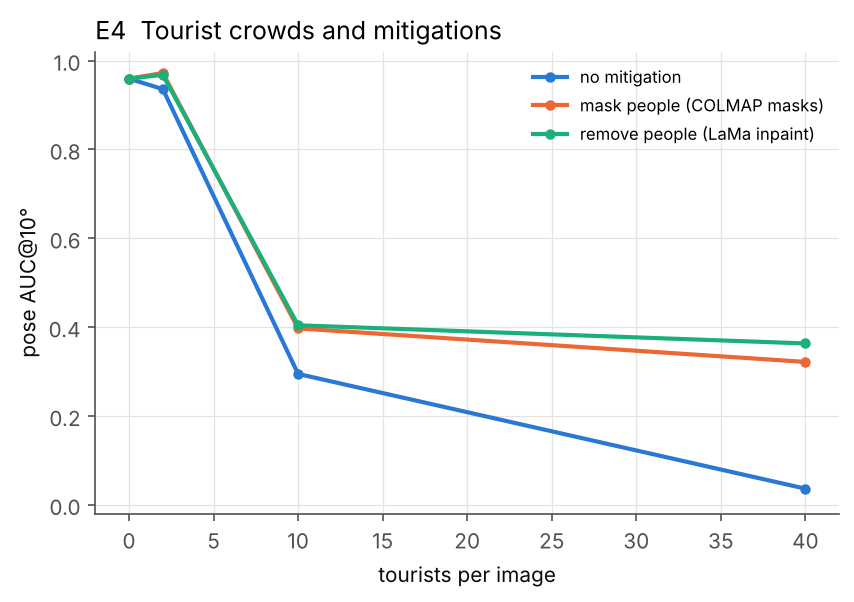
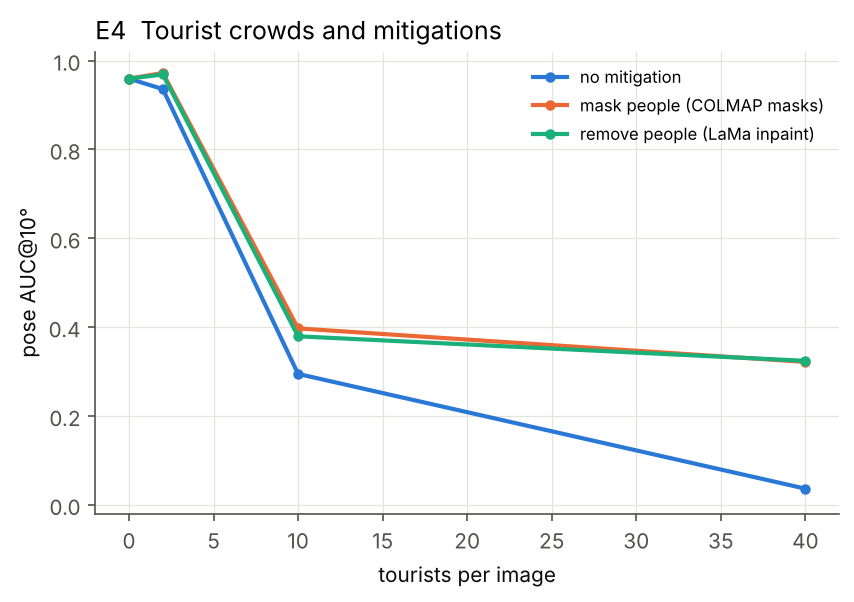
Update generative results
Claude-Session: https://claude.ai/code/session_01DwFUuxyVwkhujN2CBgQS9g

Changed region(s): [[0.3349, 0.5083, 0.9438, 0.6279], [0.2436, 0.2691, 0.3349, 0.5083], [0.2131, 0.1794, 0.2436, 0.2691]]

diff --git a/results/summary.md b/results/summary.md
@@ -53,12 +53,12 @@ Metric: pose AUC@10° over all input image pairs (unregistered = failure) and re
 | blackout | 1 | 6 | 0.969 [0.96, 0.97] | 1.000 [1.00, 1.00] |
 | blackout | 3 | 6 | 0.482 [0.42, 0.54] | 0.711 [0.66, 0.76] |
 | blackout | 5 | 6 | 0.222 [0.12, 0.35] | 0.468 [0.35, 0.60] |
-| inpaint_lama | 1 | 5 | 0.970 [0.96, 0.98] | 1.000 [1.00, 1.00] |
-| inpaint_lama | 3 | 5 | 0.480 [0.36, 0.57] | 0.708 [0.61, 0.78] |
-| inpaint_lama | 5 | 5 | 0.287 [0.14, 0.44] | 0.534 [0.38, 0.69] |
-| regen_esrgan | 1 | 5 | 0.402 [0.21, 0.59] | 0.759 [0.52, 0.98] |
-| regen_esrgan | 3 | 5 | 0.247 [0.12, 0.37] | 0.495 [0.35, 0.64] |
-| regen_esrgan | 5 | 5 | 0.017 [0.01, 0.03] | 0.172 [0.12, 0.22] |
+| inpaint_lama | 1 | 6 | 0.970 [0.96, 0.98] | 1.000 [1.00, 1.00] |
+| inpaint_lama | 3 | 6 | 0.560 [0.40, 0.74] | 0.757 [0.64, 0.87] |
+| inpaint_lama | 5 | 6 | 0.258 [0.13, 0.39] | 0.503 [0.37, 0.64] |
+| regen_esrgan | 1 | 6 | 0.354 [0.19, 0.52] | 0.695 [0.48, 0.89] |
+| regen_esrgan | 3 | 6 | 0.214 [0.11, 0.32] | 0.454 [0.32, 0.58] |
+| regen_esrgan | 5 | 6 | 0.022 [0.01, 0.03] | 0.185 [0.14, 0.23] |
 
 
 ## E1s  Synthetic weather incl. desert
@@ -98,11 +98,11 @@ Metric: pose AUC@10° over all input image pairs (unregistered = failure) and re
 |---|---|---|---|---|
 | 4 | bicubic | 6 | 0.313 [0.18, 0.45] | 0.548 [0.41, 0.68] |
 | 4 | lowres | 6 | 0.023 [0.01, 0.04] | 0.125 [0.04, 0.21] |
-| 4 | realesrgan | 5 | 0.125 [0.07, 0.17] | 0.364 [0.29, 0.44] |
+| 4 | realesrgan | 6 | 0.110 [0.06, 0.15] | 0.345 [0.28, 0.41] |
 | 4 | unsharp_bicubic | 6 | 0.320 [0.18, 0.46] | 0.555 [0.42, 0.69] |
 | 8 | bicubic | 6 | 0.026 [0.01, 0.04] | 0.145 [0.07, 0.21] |
 | 8 | lowres | 6 | 0.000 [0.00, 0.00] | 0.037 [0.01, 0.06] |
-| 8 | realesrgan | 4 | 0.000 [0.00, 0.00] | 0.020 [0.00, 0.04] |
+| 8 | realesrgan | 6 | 0.000 [0.00, 0.00] | 0.020 [0.01, 0.03] |
 | 8 | unsharp_bicubic | 6 | 0.051 [0.05, 0.05] | 0.245 [0.24, 0.25] |
 
 
@@ -112,9 +112,9 @@ Metric: pose AUC@10° over all input image pairs (unregistered = failure) and re
 
 | mitigation | severity | n | auc@10 | reg_frac |
 |---|---|---|---|---|
-| lama_remove | 1 | 5 | 0.968 [0.97, 0.97] | 1.000 [1.00, 1.00] |
-| lama_remove | 3 | 5 | 0.404 [0.24, 0.55] | 0.739 [0.60, 0.88] |
-| lama_remove | 5 | 5 | 0.363 [0.22, 0.49] | 0.718 [0.59, 0.85] |
+| lama_remove | 1 | 6 | 0.969 [0.97, 0.97] | 1.000 [1.00, 1.00] |
+| lama_remove | 3 | 6 | 0.379 [0.25, 0.51] | 0.724 [0.61, 0.84] |
+| lama_remove | 5 | 6 | 0.324 [0.20, 0.45] | 0.682 [0.57, 0.81] |
 | mask | 1 | 6 | 0.972 [0.97, 0.98] | 1.000 [1.00, 1.00] |
 | mask | 3 | 6 | 0.397 [0.28, 0.51] | 0.731 [0.62, 0.85] |
 | mask | 5 | 6 | 0.322 [0.22, 0.42] | 0.681 [0.65, 0.71] |
@@ -135,11 +135,11 @@ Metric: pose AUC@10° over all input image pairs (unregistered = failure) and re
 | crowd | 0.500 | 6 | 0.298 [0.16, 0.42] | 0.859 [0.73, 0.97] |
 | crowd | 0.750 | 6 | 0.126 [0.07, 0.18] | 0.934 [0.89, 0.97] |
 | crowd | 1.000 | 6 | 0.023 [0.01, 0.04] | 0.966 [0.91, 1.00] |
-| inpaint_lama | 0.100 | 4 | 0.966 [0.96, 0.97] | 1.000 [1.00, 1.00] |
-| inpaint_lama | 0.250 | 4 | 0.947 [0.89, 0.98] | 1.000 [1.00, 1.00] |
-| inpaint_lama | 0.500 | 4 | 0.957 [0.94, 0.97] | 1.000 [1.00, 1.00] |
-| inpaint_lama | 0.750 | 4 | 0.436 [0.31, 0.56] | 0.671 [0.56, 0.78] |
-| inpaint_lama | 1.000 | 4 | 0.444 [0.32, 0.57] | 0.677 [0.57, 0.78] |
+| inpaint_lama | 0.100 | 5 | 0.966 [0.96, 0.97] | 1.000 [1.00, 1.00] |
+| inpaint_lama | 0.250 | 5 | 0.949 [0.91, 0.97] | 1.000 [1.00, 1.00] |
+| inpaint_lama | 0.500 | 5 | 0.954 [0.94, 0.97] | 1.000 [1.00, 1.00] |
+| inpaint_lama | 0.750 | 5 | 0.535 [0.35, 0.75] | 0.737 [0.60, 0.88] |
+| inpaint_lama | 1.000 | 5 | 0.467 [0.34, 0.57] | 0.698 [0.59, 0.78] |
 | motion_blur | 0.100 | 6 | 0.599 [0.43, 0.73] | 0.829 [0.75, 0.90] |
 | motion_blur | 0.250 | 6 | 0.285 [0.13, 0.44] | 0.508 [0.34, 0.67] |
 | motion_blur | 0.500 | 6 | 0.028 [0.01, 0.06] | 0.162 [0.10, 0.23] |
